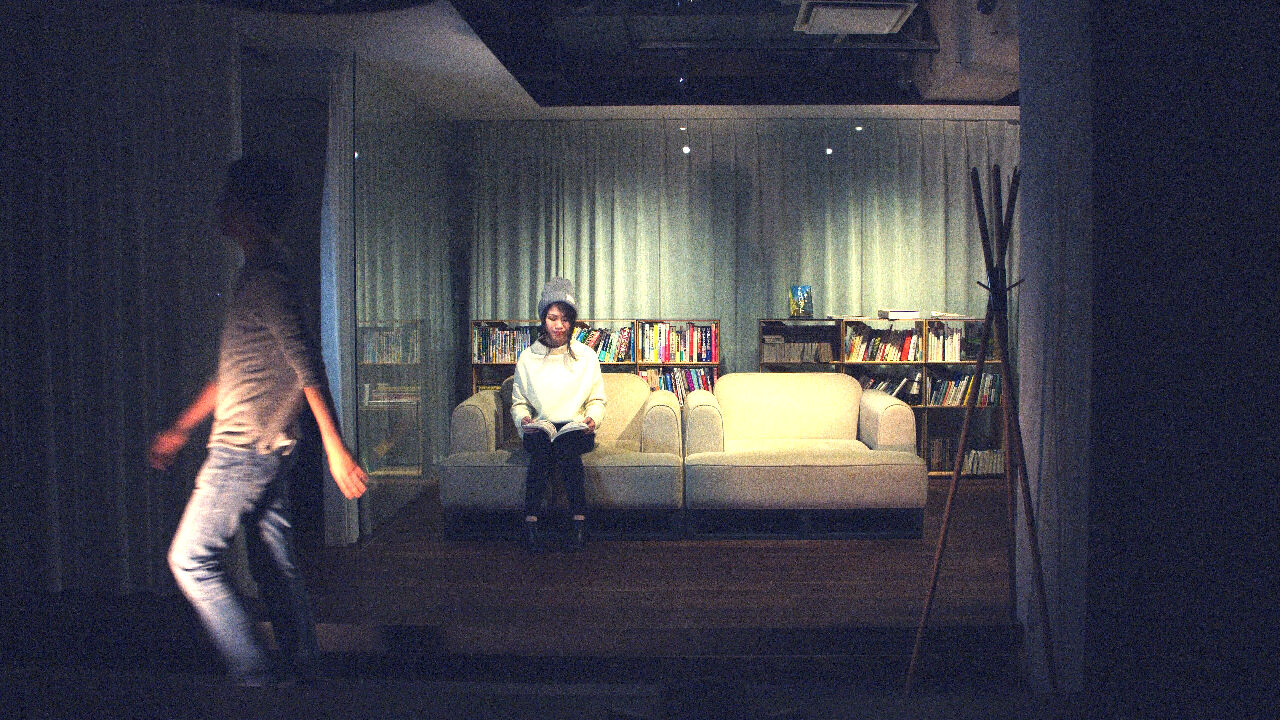
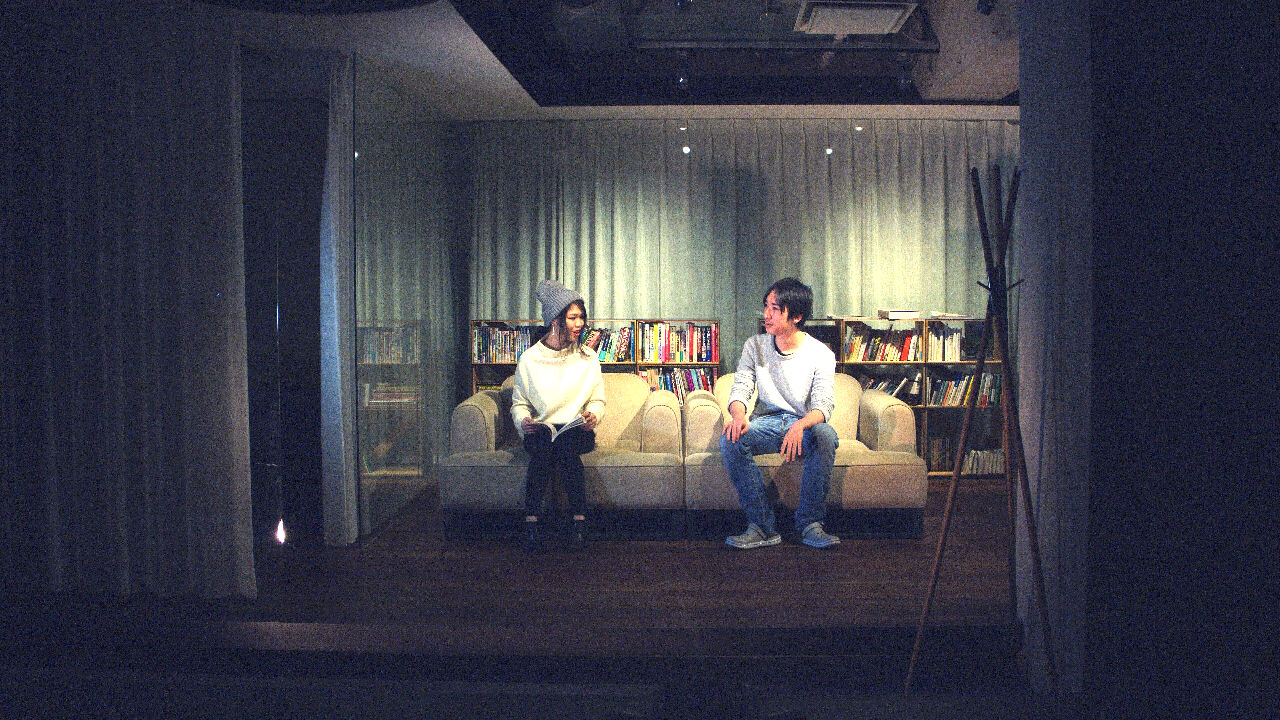
自動ズームできた

Changed region(s): [[0.0, 0.0, 1.0, 1.0]]

diff --git a/dlcam/src/GuiApp.cpp b/dlcam/src/GuiApp.cpp
@@ -32,37 +32,26 @@ void GuiApp::setup(){
 	components.push_back(component);
 
 	y += component->getHeight() + p;
-	component = new ofxDatGuiSlider("cropWidth", 1920, 3840, 3840);
+	component = new ofxDatGuiSlider("ZOOM", 0, 100, 0);
 	component->setPosition(x, y);
-	component->onSliderEvent(this, &GuiApp::onCropWidthEvent);
+	component->onSliderEvent(this, &GuiApp::onZoomEvent);
 	components.push_back(component);
 
-	parameters.setName("parameters");
-	parameters.add(guiCropWidth.set("cropWidth",3840,1920,3840));
-	parameters.add(guiCropUpperLeftX.set("cropUpperLeftX", 0, 0, 960));
-	parameters.add(guiCropUpperLeftY.set("cropUpperLeftY", 0, 0, 540));
-	gui.setup(parameters);
+
 	ofBackground(0);
 	ofSetVerticalSync(false);
 	drawBounds = false;
-	cropSliderValid = true;
 
 	cropWidth = 3840;
 	cropUpperLeftX = 0;
 	cropUpperLeftY = 0;
+	zoom1Max = 0.0;
 	
 }
 
 void GuiApp::update(){
 	for (int i = 0; i<components.size(); i++) components[i]->update();
-	cropToBounds();
-	//cout << "cropWidth: " << cropWidth << endl;
-/*	if (cropSliderValid) {
-		cropWidth = guiCropWidth.get();
-		cropUpperLeftX = guiCropUpperLeftX.get();
-		cropUpperLeftY = guiCropUpperLeftY.get();
-	}
-*/
+//	cropToBounds();
 
 	if (rtPose->timeLatestPose) {
 		string s("GPGPU is DETECTING ");
@@ -70,12 +59,21 @@ void GuiApp::update(){
 		s += " HUMAN";
 		status->setText(s);
 	}
+	if (zoom1Max > 0.0) {
+		ofVec4f centerSize = calcCrop();
+		centerSize.z = ofMap(zoom1Max, 0.0, 1.0, centerSize.z, 3840.0); // width
+		centerSize.w = 2160 * centerSize.z / 3840; // height;
+
+		ofVec4f keep = keepViewPort(centerSize);
+		cropWidth = keep.z;
+		cropUpperLeftX = keep.x - keep.z / 2.0;
+		cropUpperLeftY = keep.y - keep.w / 2.0;
+	}
 }
 
 
 
 void GuiApp::draw(){
-	//gui.draw();
 	for (int i = 0; i<components.size(); i++) components[i]->draw();
 
 }
@@ -88,8 +86,8 @@ void GuiApp::keyPressed(int key) {
 
 }
 
-ofVec3f GuiApp::calcCrop() {
-	ofVec3f crop(0,0,3480); // left, top, width
+ofVec4f GuiApp::calcCrop() {
+	ofVec4f centerSize(1920, 1080, 3480,2160); // centerX, centerY, width, height;
 	if (rtPose->currentNBody > 0) {
 		// here, 1280x720;
 		ofVec2f center = (rtPose->sceneUpperLeft + rtPose->sceneLowerRight) / 2.0;
@@ -127,18 +125,43 @@ ofVec3f GuiApp::calcCrop() {
 		else if (bottom > 2160.0) {
 			center.y -= bottom - 2160.0;
 		}
-
-		crop.set(center.x - (size.x / 2.0), center.y - (size.y / 2.0), size.x);
+		centerSize.set(center.x, center.y, size.x, size.y);
+//		crop.set(center.x - (size.x / 2.0), center.y - (size.y / 2.0), size.x);
 		
 	}
-	return crop;
+	return centerSize;
 }
 
+ofVec4f GuiApp::keepViewPort(ofVec4f centerSize) {
+	float left = centerSize.x - centerSize.z / 2.0;
+	float top = centerSize.y - centerSize.w / 2.0;
+	float right = centerSize.x + centerSize.z / 2.0;
+	float bottom = centerSize.y + centerSize.w / 2.0;
+
+	if (left < 0.0) {
+		centerSize.x += left * -1.0;
+	}
+	else if (right > 3840.0) {
+		centerSize.x -= right - 3840.0;
+	}
+
+	if (top < 0.0) {
+		centerSize.y += top * -1.0;
+	}
+	else if (bottom > 2160.0) {
+		centerSize.y -= bottom - 2160.0;
+	}
+
+	ofVec4f newCenterSize(centerSize.x, centerSize.y, centerSize.z, centerSize.w);
+
+	return newCenterSize;
+
+}
 void GuiApp::cropToBounds() {
-	ofVec3f crop = calcCrop();
-	cropWidth = crop.z;
-	cropUpperLeftX = crop.x;
-	cropUpperLeftY = crop.y;
+	ofVec4f centerSize = calcCrop();
+	cropWidth = centerSize.z;
+	cropUpperLeftX = centerSize.x - centerSize.z / 2.0;
+	cropUpperLeftY = centerSize.y - centerSize.w / 2.0;
 }
 
 
@@ -160,10 +183,12 @@ void GuiApp::onCropToBoundsButtonEvent(ofxDatGuiButtonEvent e)
 	cropToBounds();
 }
 
-void GuiApp::onCropWidthEvent(ofxDatGuiSliderEvent e)
+void GuiApp::onZoomEvent(ofxDatGuiSliderEvent e)
 {
-	cropWidth = (float)e.value;
+	float zoom = (float)e.value;
+	zoom1Max = (100 - zoom) / 100;
 
+	
 	cout << "onSliderEvent: " << e.value << "::" << e.scale << endl;
 }
 

diff --git a/dlcam/src/GuiApp.h b/dlcam/src/GuiApp.h
@@ -12,15 +12,16 @@ public:
 	void draw();
 	void keyPressed(int key);
 	void cropToBounds();
-	ofVec3f calcCrop();
-	
+	ofVec4f calcCrop();
+	ofVec4f keepViewPort(ofVec4f centerSize);
+
 	vector<ofxDatGuiComponent*> components;
 	ofxDatGuiTextInput* status;
 
 	void onResetButtonEvent(ofxDatGuiButtonEvent e);
 	void onCropToBoundsButtonEvent(ofxDatGuiButtonEvent e);
 
-	void onCropWidthEvent(ofxDatGuiSliderEvent e);
+	void onZoomEvent(ofxDatGuiSliderEvent e);
 	void onToggleEvent(ofxDatGuiToggleEvent e);
 	void onSliderEvent(ofxDatGuiSliderEvent e);
 	void onDropdownEvent(ofxDatGuiDropdownEvent e);
@@ -29,16 +30,8 @@ public:
 	void on2dPadEvent(ofxDatGui2dPadEvent e);
 	void onTextInputEvent(ofxDatGuiTextInputEvent e);
 
+	float cropWidth, cropUpperLeftX, cropUpperLeftY, zoom1Max;
 
-
-	ofParameterGroup parameters;
-	ofParameter<float> guiCropWidth;
-	ofParameter<float> guiCropUpperLeftX;
-	ofParameter<float> guiCropUpperLeftY;
-	ofParameter<ofColor> color;
-	ofxPanel gui;
-
-	float cropWidth, cropUpperLeftX, cropUpperLeftY;
 
 	shared_ptr<rtPoseApp> rtPose;
 	bool drawBounds;
